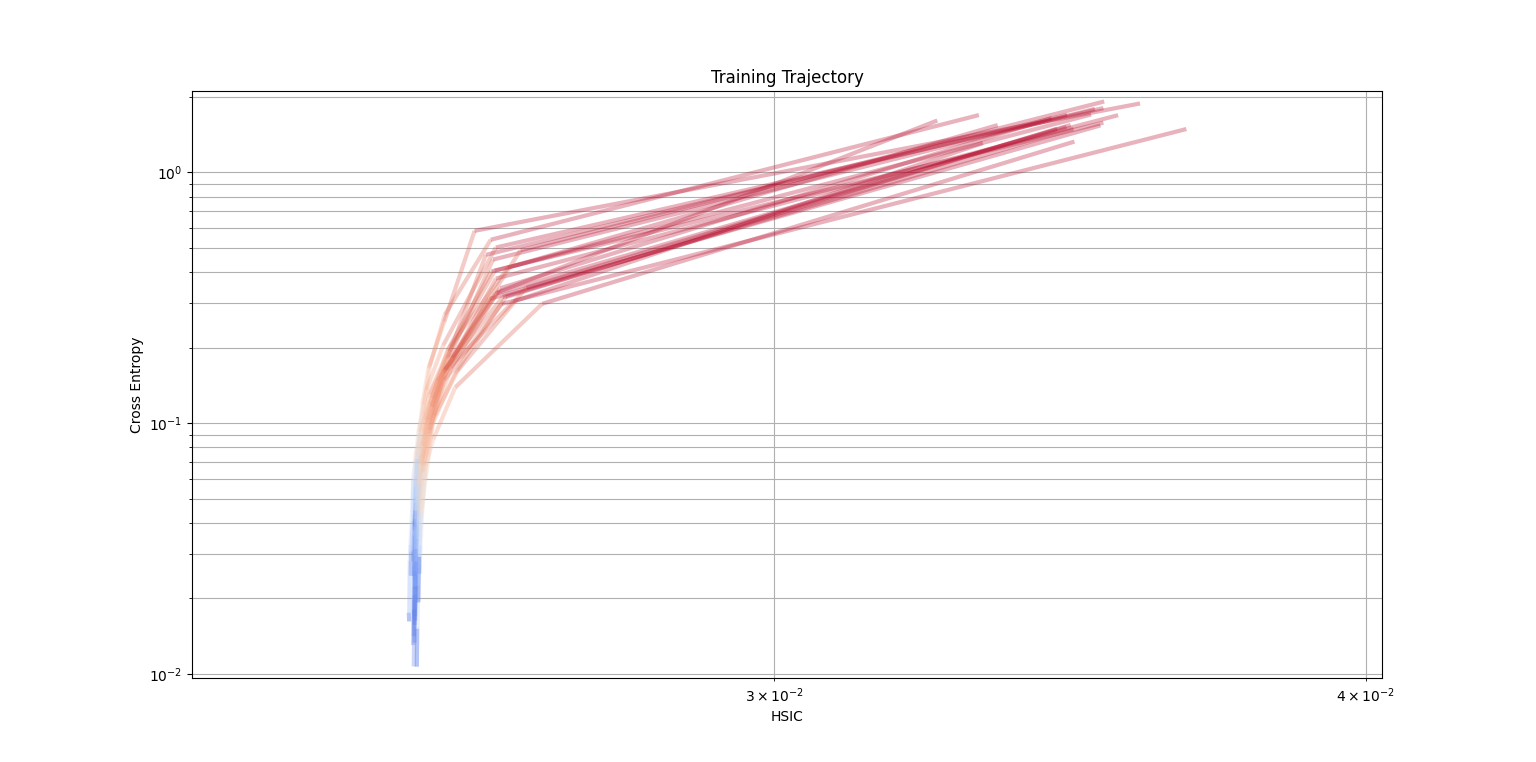
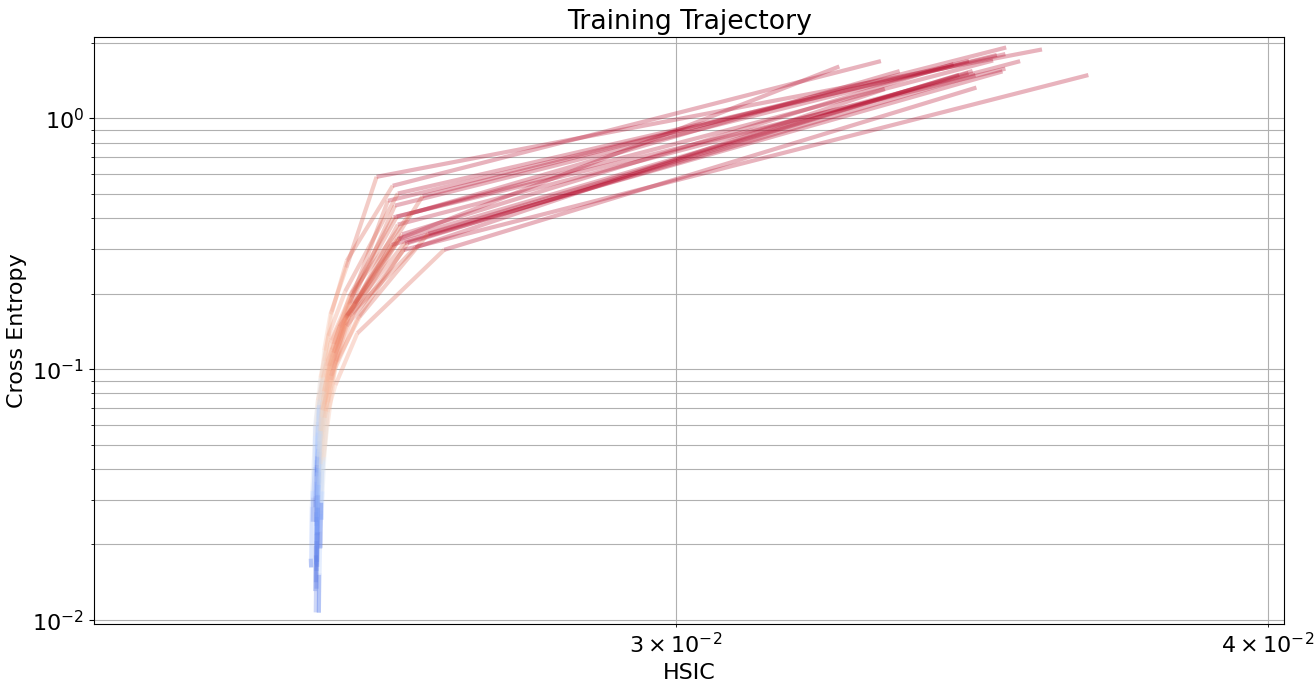
Update figures

diff --git a/plot_mmdm_training.py b/plot_mmdm_training.py
@@ -2,6 +2,7 @@ import json
 from pathlib import Path
 from typing import List, Dict, Tuple
 
+import matplotlib
 import matplotlib.pyplot as plt
 
 from lib.plot.colorline import colorline
@@ -31,6 +32,8 @@ def update_min_max(
 
 
 def main(trial_folder: str):
+    matplotlib.rcParams.update({"font.size": 16})
+
     trial_results = load_trials(trial_folder)
     plt.ion()
     f, ax = plt.subplots()
